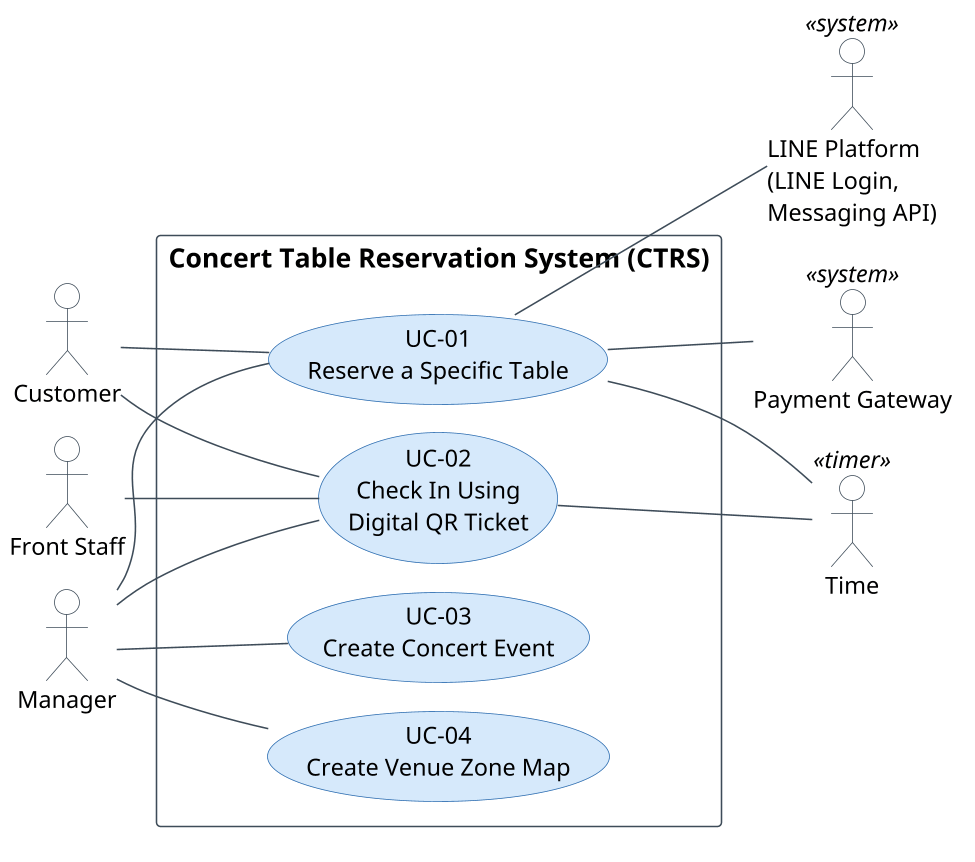
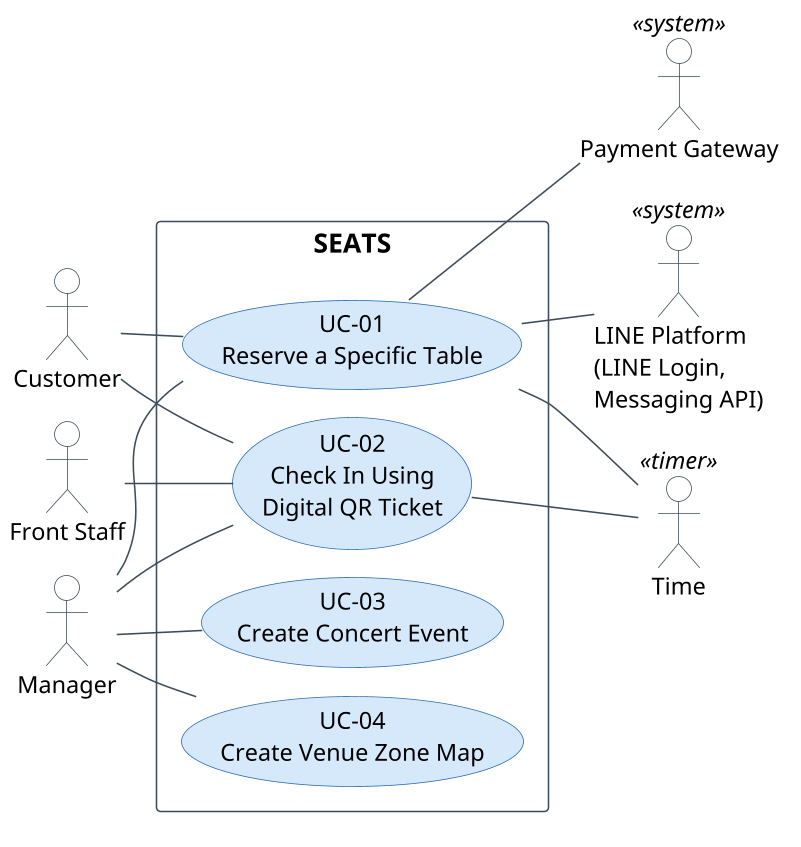
doc v2.0 CH-22: product name SEATS instead of CTRS
The project document follows the 2110628 requirements and names the
product Seating & Event Availability Tracking System (SEATS); the former
name CTRS is kept only where the document says what Deliverables #1 and
#2 called it (0.1 Product name, 1.3, the cover). The use case diagram's
system boundary reads SEATS, the figure captions, the running header and
the PDF name (seats_project_document_v*.pdf) follow; README titles too.
Version 2.0 draft 2: revision history row and change CH-22 added; the
open item about the name is closed. Frozen as-submitted transcriptions,
the submitted PDFs and the known-issue records keep the old name.

diff --git a/assignments/group/workspace/report/project-document/assets/architecture-diagram.html b/assignments/group/workspace/report/project-document/assets/architecture-diagram.html
@@ -1,6 +1,6 @@
 <!doctype html>
 <html lang="en"><head><meta charset="utf-8">
-<title>CTRS microservice architecture, version 2</title>
+<title>SEATS microservice architecture, version 2</title>
 <!-- Source of assets/architecture-diagram.png (project document v2.0, CH-20). Rendered with headless Chromium
      at 2x: the screenshot covers div.canvas. Grey dashed and dotted arrows are added in Increment 2. -->
 <style>body { margin: 0; background: #fff; } .canvas { width: 1720px; height: 1010px; }</style>

diff --git a/assignments/group/tools/build_report.py b/assignments/group/tools/build_report.py
@@ -8,9 +8,9 @@ figures). That repository is found as $REQ_REPO, else the tree this repository i
 running header are replaced here: they carry this course, group SE 101 and the version.
 
 Usage (from the repository root):
-    python3 assignments/group/tools/build_report.py                          # 2.0 draft 1
+    python3 assignments/group/tools/build_report.py                          # 2.0 draft 2
     python3 assignments/group/tools/build_report.py --version "2.0" --status final
-Output: assignments/group/workspace/report/build/ctrs_project_document_v<version>.pdf (git-ignored)
+Output: assignments/group/workspace/report/build/seats_project_document_v<version>.pdf (git-ignored)
 """
 import argparse
 import base64
@@ -25,7 +25,8 @@ REPO = GROUP.parent.parent
 DOC = GROUP / "workspace" / "report" / "project-document"
 OUT = GROUP / "workspace" / "report" / "build"
 
-TITLE = "Concert Table Reservation System for Restaurant"
+TITLE = "Seating & Event Availability Tracking System (SEATS)"
+FORMER_NAME = "named Concert Table Reservation System (CTRS) in Deliverables #1 and #2"
 SUBTITLE = "Project Description, ADRs and Microservice Design"
 COURSE = "2110521 Software Architecture"
 COURSE_TH = "2110521 วิศวกรรมสถาปัตยกรรมซอฟต์แวร์"
@@ -54,7 +55,7 @@ def make_cover(label: str, date: str, status: str):
         return f"""<section class="cover">
 <img class="emblem" src="{build_pdf.LOGO_EMBLEM.as_uri()}" alt="Chulalongkorn University">
 <div class="title">{html.escape(TITLE)}</div>
-<div class="subtitle">{html.escape(SUBTITLE)}<br>{html.escape(COURSE_TH)} ({html.escape(COURSE)})</div>
+<div class="subtitle">{html.escape(SUBTITLE)}<br>{html.escape(COURSE_TH)} ({html.escape(COURSE)})<br><small>{html.escape(FORMER_NAME)}</small></div>
 <div class="members-title">Group Members</div>
 <div class="group">{html.escape(GROUP_NAME)}</div>
 <table>{members}</table>
@@ -71,7 +72,7 @@ def running_header() -> str:
             f"<div style='display:flex;align-items:center;gap:5px;'><img src='{uri(build_pdf.LOGO_GEAR)}' style='height:22px'>"
             f"<img src='{uri(build_pdf.LOGO_STRIP)}' style='height:19px'></div>"
             f"<div style='text-align:right;font-size:8.5px;color:#374151;line-height:1.5;'>{html.escape(COURSE)}<br>"
-            f"Group {html.escape(GROUP_NAME)} · CTRS project document<br><span style='color:#6b7280'><span class='pageNumber'></span> / <span class='totalPages'></span></span></div>"
+            f"Group {html.escape(GROUP_NAME)} · SEATS project document<br><span style='color:#6b7280'><span class='pageNumber'></span> / <span class='totalPages'></span></span></div>"
             f"</div><div style='height:2px;background:#8b1a1a;margin-top:3px;-webkit-print-color-adjust:exact;'></div></div>")
 
 
@@ -145,7 +146,7 @@ class _Markdown(build_pdf.markdown.Markdown):
 
 if __name__ == "__main__":
     ap = argparse.ArgumentParser(description=__doc__, formatter_class=argparse.RawDescriptionHelpFormatter)
-    ap.add_argument("--version", default="2.0 draft 1", help="version label on the cover (default: %(default)s)")
+    ap.add_argument("--version", default="2.0 draft 2", help="version label on the cover (default: %(default)s)")
     ap.add_argument("--date", default="29 September 2026")
     ap.add_argument("--status", default="draft for review by the group")
     a = ap.parse_args()
@@ -159,5 +160,5 @@ if __name__ == "__main__":
     build_pdf.CSS += ("\np > em:only-child { display: inline; text-align: inherit; font-size: inherit; margin-top: 0; }"
                       "\np[id^='fig-'] > em:only-child { display: block; text-align: center; font-size: 13pt; margin-top: -2pt; }")
     build_pdf.markdown.Markdown = _Markdown
-    out = OUT / f"ctrs_project_document_v{re.sub(r'[^0-9A-Za-z.]+', '-', a.version).strip('-')}.pdf"
+    out = OUT / f"seats_project_document_v{re.sub(r'[^0-9A-Za-z.]+', '-', a.version).strip('-')}.pdf"
     build_pdf.build(parts, "v" + a.version, out)

diff --git a/assignments/group/tools/draw_architecture.py b/assignments/group/tools/draw_architecture.py
@@ -1,5 +1,5 @@
 #!/usr/bin/env python3
-"""Draw the CTRS microservice architecture diagram (project document Figure 5.1) and render it.
+"""Draw the SEATS microservice architecture diagram (project document Figure 5.1) and render it.
 
 Writes workspace/report/project-document/assets/architecture-diagram.html (one inline SVG, the editable source of the
 figure) and renders assets/architecture-diagram.png with headless Chromium at 2x (Playwright). Every element and arrow is
@@ -173,7 +173,7 @@ svg = (f'<svg xmlns="http://www.w3.org/2000/svg" width="{W}" height="{H}" viewBo
        f'<rect width="{W}" height="{H}" fill="#fff"/>' + "".join(S) + "</svg>")
 html = f"""<!doctype html>
 <html lang="en"><head><meta charset="utf-8">
-<title>CTRS microservice architecture, version 2</title>
+<title>SEATS microservice architecture, version 2</title>
 <!-- Source of assets/architecture-diagram.png (project document v2.0, CH-20). Rendered with headless Chromium
      at 2x: the screenshot covers div.canvas. Grey dashed and dotted arrows are added in Increment 2. -->
 <style>body {{ margin: 0; background: #fff; }} .canvas {{ width: {W}px; height: {H}px; }}</style>

diff --git a/assignments/group/workspace/report/project-document/00-document-control.md b/assignments/group/workspace/report/project-document/00-document-control.md
@@ -6,13 +6,14 @@
 
 | | |
 |---|---|
-| Document | Project Description, ADRs and Microservice Design of the Concert Table Reservation System (CTRS) |
+| Document | Project Description, ADRs and Microservice Design of the Seating & Event Availability Tracking System (SEATS) |
+| Product name | SEATS, the name used by the 2110628 requirements; Deliverables #1 and #2 called the system Concert Table Reservation System (CTRS) |
 | Course | 2110521 Software Architecture, Semester 1, Academic Year 2026 |
 | Group | SE 101 |
-| Version | 2.0 draft 1, 29 September 2026 |
+| Version | 2.0 draft 2, 29 September 2026 |
 | Status | Draft for review by the group; basis of the updated ADRs and microservice design of Deliverable #3 |
 | Previous version | 1.1: Deliverable #1 (version 1.0) and Deliverable #2 as submitted on 8 September 2026 |
-| Source of requirements | 2110628 Requirements Engineering project of the same system, there named SEATS: Vision 1.13, Software Requirements Specification 1.11, Supplementary Specification 1.9, Business Rules 1.7, use cases UC-01 1.14, UC-02 1.9 and UC-16 1.1 |
+| Source of requirements | 2110628 Requirements Engineering project of the same system: Vision 1.13, Software Requirements Specification 1.11, Supplementary Specification 1.9, Business Rules 1.7, use cases UC-01 1.14, UC-02 1.9 and UC-16 1.1 |
 
 ## 0.2 Revision History
 
@@ -23,6 +24,7 @@
 | 1.0 | 2026-09-08 | SE 101 | Deliverable #1 submitted: project description, four use cases, requirements, ADR-01 to ADR-07. | — |
 | 1.1 | 2026-09-08 | SE 101 | Deliverable #2 submitted: microservice design version 1 (Service–Operations–Collaborators table, architecture diagram). | — |
 | 2.0 draft 1 | 2026-09-29 | Watayut A. | Revision after the teacher's feedback on both deliverables and the known issues found in them: scope in increments with an MVP, use case diagram redrawn, requirements aligned with the 2110628 artifacts, ADR-06 corrected, ADR-08 to ADR-11 added, architecture version 2. Changes CH-01 to CH-21. | FB-D1-01, FB-D2-01, KI-01 to KI-13 |
+| 2.0 draft 2 | 2026-09-29 | Watayut A. | Product name SEATS (Seating & Event Availability Tracking System) instead of CTRS, as in the 2110628 requirements. Change CH-22. | 2110628 |
 
 ## 0.3 Change Log
 
@@ -53,6 +55,7 @@ Each change of version 2.0 has an identifier. The commits that made it start wit
 | CH-19 | Modified | 5.2 | Table 5.1 marks the Increment 2 operations; the Payment Service calls the Notification Service for sendSlipDecisionNotice(); zone-map image operations replace the seat-view photo operations; recordAdditionalGuests() is removed. | KI-10, FB-D2-01, 2110628 |
 | CH-20 | Modified | 5.3 | Figure 5.1 architecture version 2: arrows end on the services, not on their databases; Payment → Notification added; Increment 2 arrows grey and dashed; polling and simulated gateway in the MVP. | KI-10, KI-11, FB-D2-01 |
 | CH-21 | Modified | cover | The cover names the Department of Computer Engineering. | KI-13 |
+| CH-22 | Modified | 0.1, 1.3, 2.1, 5.1, 5.3, cover | The product is named Seating & Event Availability Tracking System (SEATS), as in the 2110628 requirements, instead of Concert Table Reservation System (CTRS); the use case diagram's system boundary, the figure captions, the cover and the running header follow. | 2110628 |
 
 ## 0.4 Resolution of Feedback and Known Issues
 
@@ -82,11 +85,11 @@ The teacher feedback is kept as received in the group's workspace (received/teac
 ## 0.5 Open Items
 
 - **KI-14, technology minimums.** The syllabus asks for REST, gRPC and message-broker services, an API gateway, service discovery, and both a relational and a NoSQL database. Deliverable #3 needs at least a REST and a gRPC service with CRUD, so the ADRs for these choices come next.
-- **Decisions for the group to confirm.** The MVP boundary of Section 1.3, in particular that seat-view photographs are out of scope and that the degraded payment mode comes after the MVP although the 2110628 requirements keep it in their Release 1.0. The product keeps the name CTRS here, while the 2110628 project now calls it SEATS.
+- **Decisions for the group to confirm.** The MVP boundary of Section 1.3, in particular that seat-view photographs are out of scope and that the degraded payment mode comes after the MVP although the 2110628 requirements keep it in their Release 1.0.
 - **Traceability.** The requirement identifiers follow the 2110628 artifact versions of Table 0.1; later changes there are not followed automatically.
 
 ## 0.6 How to See the Changes
 
 - **Redline.** tools/redline.py writes a page that shows every deleted and inserted word between version 1.1 and this version, paragraph by paragraph, under its section heading.
-- **Git.** The tag doc-v1.1-submitted holds the text as submitted and doc-v2.0-draft1 this version; comparing the two tags on GitHub, or with git diff on the folder workspace/report/project-document, shows every change.
+- **Git.** The tag doc-v1.1-submitted holds the text as submitted, doc-v2.0-draft1 the first draft and doc-v2.0-draft2 this version; comparing the two tags on GitHub, or with git diff on the folder workspace/report/project-document, shows every change.
 - **Commits.** Every commit of this revision starts with the change identifiers it applies, for example "doc v2.0 CH-13..CH-17".

diff --git a/assignments/group/README.md b/assignments/group/README.md
@@ -1,6 +1,6 @@
-# Group project: CTRS, 2110521 Software Architecture
+# Group project: SEATS, 2110521 Software Architecture
 
-Term project of group SE 101: the Concert Table Reservation System (CTRS), the same system the 2110628 Requirements
+Term project of group SE 101: the Seating & Event Availability Tracking System (SEATS), called Concert Table Reservation System (CTRS) in Deliverables #1 and #2, the same system the 2110628 Requirements
 Engineering and 2110722 Software Project Management courses work on. This course designs its architecture deliverable
 by deliverable: use cases, requirements and Architectural Decision Records (ADRs) in Deliverable #1, services and the
 architecture diagram in Deliverable #2.
@@ -13,7 +13,7 @@ One folder per kind of thing, as in the 2110628 repository. What is handed in li
 | `deliverables/report/` | What was handed in: `Deliverable-1.pdf` (32 pages: problem, use cases, requirements, ADRs) and `Deliverable-2.pdf` (8 pages: Service–Operations–Collaborators table, architecture diagram). | only by copying the submitted file |
 | `workspace/report/deliverable-1/` | Frozen transcription of Deliverable #1 as submitted: `Deliverable-1.md`, split into `use-cases.md`, `requirements.md` and `adr.md`. `assets/` holds the use case diagram extracted from the PDF and the venue's printed zone map. | no (as submitted) |
 | `workspace/report/deliverable-2/` | Frozen transcription of Deliverable #2 as submitted: `Deliverable-2.md`, with the service table and a transcription of the diagram. `assets/architecture-diagram.png` is the diagram extracted from the PDF. | no (as submitted) |
-| `workspace/report/project-document/` | **The living project document** (version 2.0 draft 1): Deliverables #1 and #2 fixed after the teacher feedback and the known issues, one file per part (00 document control with revision history and change log, 01 project description, 02 use cases, 03 requirements, 04 ADRs, 05 microservice design), figures and their sources in `assets/`. Baselines are git tags: `doc-v1.1-submitted` (as submitted), `doc-v2.0-draft1`. | yes (the source for Deliverable #3) |
+| `workspace/report/project-document/` | **The living project document** (version 2.0 draft 2): Deliverables #1 and #2 fixed after the teacher feedback and the known issues, one file per part (00 document control with revision history and change log, 01 project description, 02 use cases, 03 requirements, 04 ADRs, 05 microservice design), figures and their sources in `assets/`. Baselines are git tags: `doc-v1.1-submitted` (as submitted), `doc-v2.0-draft1`, `doc-v2.0-draft2`. | yes (the source for Deliverable #3) |
 | `workspace/report/build/` | Working builds (ignored): the PDF from `tools/build_report.py` and the redlines from the top-level `tools/redline.py`. | no |
 | `tools/` | `build_report.py` (PDF of the project document, reusing the 2110628 report builder), `draw_architecture.py` (Figure 5.1 as SVG and PNG). | yes |
 | `workspace/report/deliverable-N/png/` | Page images of each handed-in PDF (ignored). Render with `python3 tools/render_pages.py --all` from the repository root. | no |

diff --git a/assignments/group/workspace/report/project-document/05-microservice-design.md b/assignments/group/workspace/report/project-document/05-microservice-design.md
@@ -2,7 +2,7 @@
 
 ## 5.1 Scope of the Microservice Design
 
-This section presents the second version of the microservice architecture for the Concert Table Reservation System (CTRS). It contains the Service–Operations–Collaborators table and the architecture diagram of the system, together with the reasoning that ties them to the four use cases of Section 2. Following the teacher's feedback on Deliverable #2 (FB-D2-01), the table and the diagram mark what the MVP builds and what Increment 2 adds (Section 1.3).
+This section presents the second version of the microservice architecture for the Seating & Event Availability Tracking System (SEATS). It contains the Service–Operations–Collaborators table and the architecture diagram of the system, together with the reasoning that ties them to the four use cases of Section 2. Following the teacher's feedback on Deliverable #2 (FB-D2-01), the table and the diagram mark what the MVP builds and what Increment 2 adds (Section 1.3).
 
 The architecture covers the four use cases end to end, including their alternative and exceptional flows:
 
@@ -29,8 +29,8 @@ Operations are the business operations exposed by each service. Collaborators ar
 
 ## 5.3 Architecture Diagram
 
-![CTRS microservice architecture, version 2](assets/architecture-diagram.png)
+![SEATS microservice architecture, version 2](assets/architecture-diagram.png)
 
-*Figure 5.1 CTRS microservice architecture, version 2*
+*Figure 5.1 SEATS microservice architecture, version 2*
 
 The diagram is drawn in the ports-and-adapters style: every service is a hexagon whose business logic is reached only through adapters on its edges. An arrow A → B means A invokes B; response paths are not drawn. The hosted checkout page of the Payment Gateway is opened by the customer's browser inside the web app and is therefore not shown as a service call. Grey dashed arrows are added in Increment 2. In the MVP the web apps read the table status by polling through the API Gateway (ADR-09), and the Payment Gateway is the simulated gateway of ADR-11.

diff --git a/assignments/group/workspace/report/project-document/01-project-description.md b/assignments/group/workspace/report/project-document/01-project-description.md
@@ -26,4 +26,4 @@ The teacher's feedback on Deliverable #2 (FB-D2-01) found the scope too large fo
 | Increment 2 | Copy a round or a zone map; withdraw a published round; handle a zone map changed during editing. | UC-03 AF-2, AF-4, EF-3; UC-04 AF-2 |
 | Out of scope | Planned in the 2110628 requirements for Release 2.0 or later: reminders and the "on my way" grace extension, waitlist, booking transfer, reports and analytics, and seat-view photographs of the tables. | — |
 
-The requirements come from the 2110628 Requirements Engineering project of the same system, where the product is now named SEATS. Their identifiers (FR-nn, NFR-nn, BRULE-nn) are kept in this document so that the two documents cross-reference.
+The requirements come from the 2110628 Requirements Engineering project of the same system, and so does the product's name, Seating & Event Availability Tracking System (SEATS); Deliverables #1 and #2 called it Concert Table Reservation System (CTRS). The identifiers of those requirements (FR-nn, NFR-nn, BRULE-nn) are kept in this document so that the two documents cross-reference.

diff --git a/assignments/group/workspace/report/project-document/02-use-cases.md b/assignments/group/workspace/report/project-document/02-use-cases.md
@@ -2,9 +2,9 @@
 
 ## 2.1 Use Case Diagram
 
-![Use case diagram of the Concert Table Reservation System (CTRS)](assets/use-case-diagram.png)
+![Use case diagram of the Seating & Event Availability Tracking System (SEATS)](assets/use-case-diagram.png)
 
-*Figure 2.1 Use case diagram of the Concert Table Reservation System (CTRS)*
+*Figure 2.1 Use case diagram of the Seating & Event Availability Tracking System (SEATS)*
 
 The diagram names each use case as its description does and shows every actor that takes part in it: the Customer, the Front Staff and the Manager, and the secondary actors LINE Platform (LINE Login and the Messaging API), Payment Gateway and Time. There is no «include» or «extend» relationship: UC-04, UC-03, UC-01 and UC-02 follow one another because each produces what the next one needs (zone map, concert round, confirmed booking), which is an order of use, not a relationship between use cases.
 

diff --git a/README.md b/README.md
@@ -30,7 +30,7 @@ assignments/
     01/               Homework 1: fifty keywords from lecture 1
     02/               Tutorial 1, REST: CTRS FloorPlan REST API (Node.js, Express, MongoDB) + demo video script
     03/               Tutorial 2, gRPC: the lecture's restaurant sample moved onto MongoDB + demo video script
-  group/              The term project (CTRS): architecture deliverables of group SE 101
+  group/              The term project (SEATS, formerly CTRS): architecture deliverables of group SE 101
     problem/          The brief of each deliverable (deliverable-N/problem.md + images); read-only
     workspace/        report/project-document/ = the living document (fixed D1 + D2, versioned);
                       report/deliverable-N/ = as-submitted transcriptions; notes/ = known issues;
